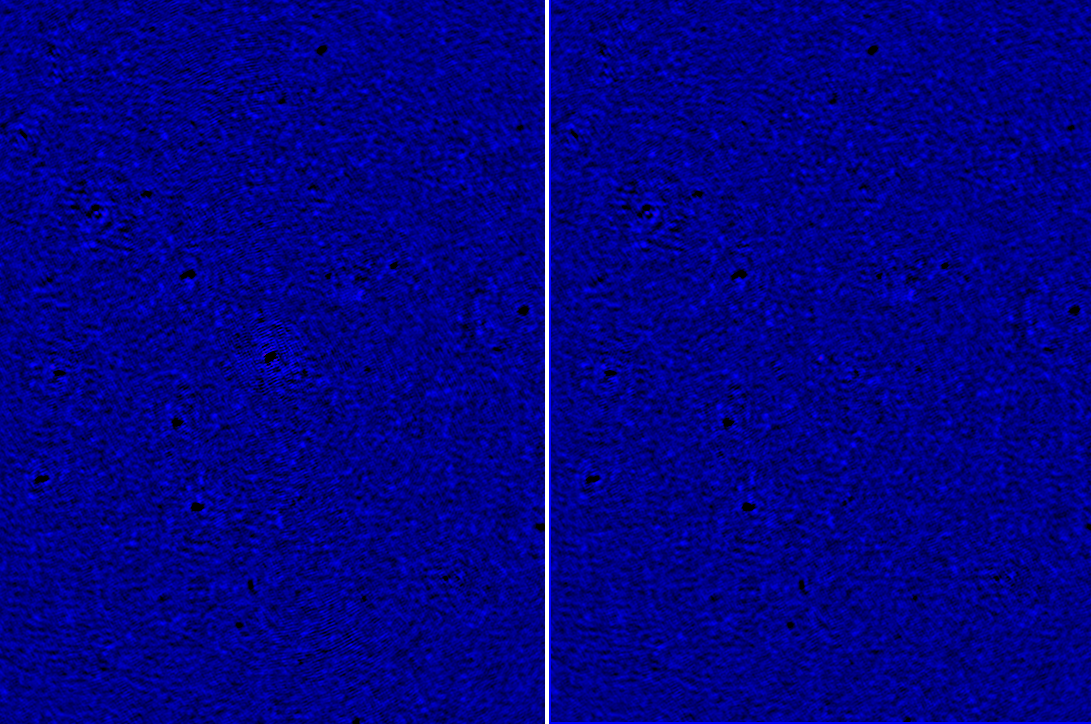
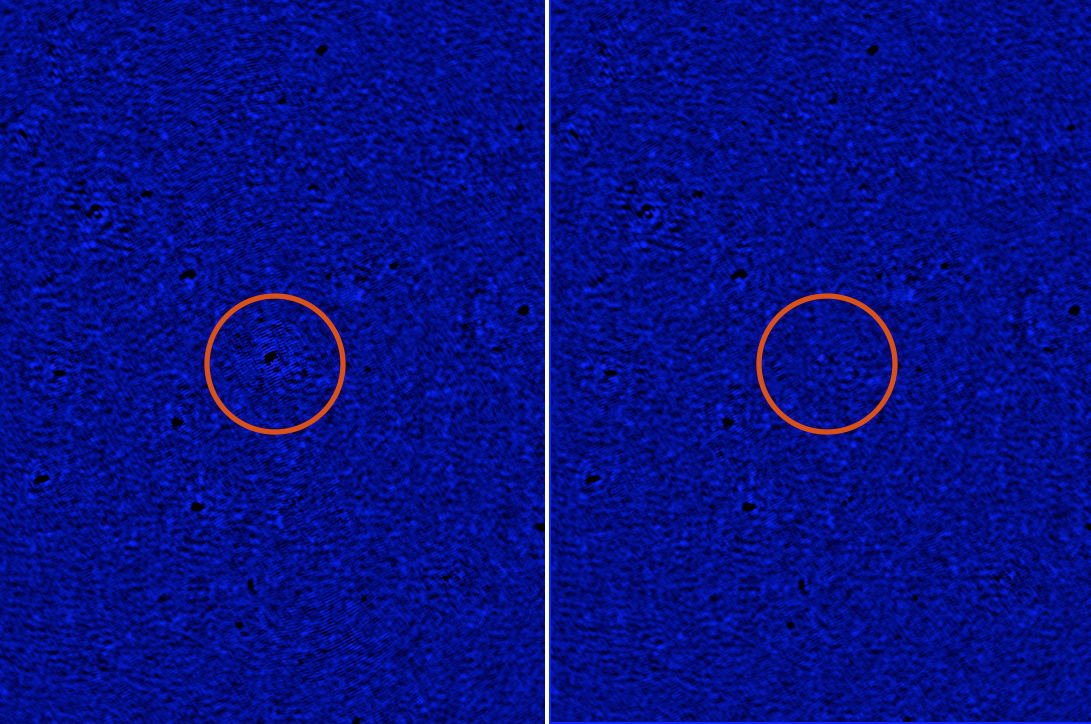
Added more documentation

diff --git a/doc/source/facetselfcal.rst b/doc/source/facetselfcal.rst
@@ -181,7 +181,7 @@ Pipeline Steps
        :align: center
        :alt: example solutions
 
-       Merged parmdb fast solutions plot
+       Merged parmdb fast phase (CommonScalarPhase + TEC) solutions plot for RS106
 
     .. _`Merged parmdb slow solutions plot`:
 
@@ -191,7 +191,7 @@ Pipeline Steps
        :align: center
        :alt: example solutions
 
-       Merged parmdb slow solutions plot
+       Merged parmdb slow phase and amplitude solutions plot for RS106
 
     expand_merged_parmdb_map
         Match the number of dir-dependent parmdb entries in the datamap to that in the phase-shifted (with all facet sources) datasets datamap.
@@ -271,7 +271,7 @@ Input
 	Full-resolution datasets (with all facet sources subtracted)
 
 Output
-    For each band, wide-field (~ 8 degree radius) images, one from before self calibration and one from after self calibration, are made at approximately 90" resolution. A region of an example image is shown in the `Residual example image`_. Note the improved subtraction for the source in the center (the facet calibrator).
+    For each band, wide-field (~ 8 degree radius) images, one from before self calibration and one from after self calibration, are made at approximately 90" resolution. A region of an example image is shown in the `Residual example image`_. Note the improved subtraction for the circled source in the center (the facet calibrator).
 
     .. _`Residual example image`:
 
@@ -281,7 +281,7 @@ Output
        :align: center
        :alt: example image
 
-       Residual example image
+       Residual example image. The left image shows the residuals before self calibration; the right image shows the residuals after self calibration.
 
 Pipeline Steps
     apply_dir_indep_pre, apply_dir_indep_post
